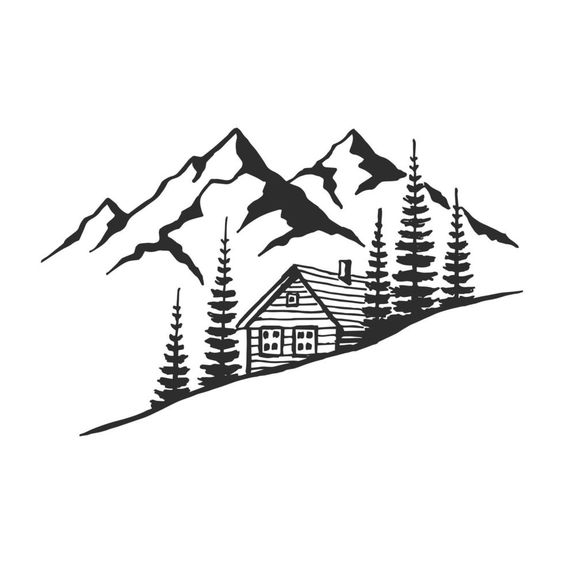
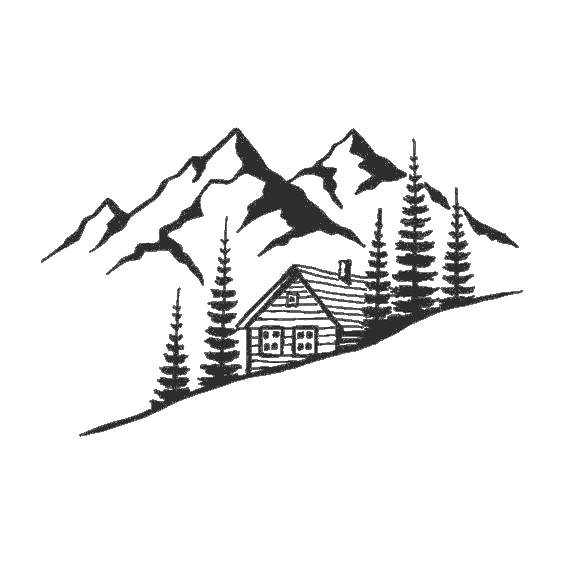
Fix styles for dark theme

diff --git a/OpenIdProvider.Blazor/Components/Pages/Account/Login.razor.css b/OpenIdProvider.Blazor/Components/Pages/Account/Login.razor.css
@@ -57,8 +57,15 @@ img {
     background-color: #a2a1a1;
 }
 
-.form-control {
-    height: 50px;
+.form-floating ::deep .form-control {
+    background-color: var(--bg-color);
+    border: 1px solid var(--border-color);
+    color: var(--text-primary);
+    transition: box-shadow 0.2s, border-color 0.2s;
+}
+
+.form-floating > label {
+    color: var(--text-secondary);
 }
 
 .btn-success {
@@ -81,10 +88,16 @@ img {
     text-align: center;
 }
 
-.container-inline p,
+.container-inline p {
+    display: inline;
+    color: var(--text-secondary);
+    margin-right: 10px;
+    font-size: 16px;
+}
+
 .container-inline a {
     display: inline;
-    color: #2f2f2f;
+    color: var(--accent-purple);
     margin-right: 10px;
     font-size: 16px;
 }

diff --git a/OpenIdProvider.Blazor/Components/Pages/Account/Register.razor.css b/OpenIdProvider.Blazor/Components/Pages/Account/Register.razor.css
@@ -57,8 +57,15 @@ img {
     background-color: #a2a1a1;
 }
 
-.form-control {
-    height: 50px;
+.form-floating ::deep .form-control {
+    background-color: var(--bg-color);
+    border: 1px solid var(--border-color);
+    color: var(--text-primary);
+    transition: box-shadow 0.2s, border-color 0.2s;
+}
+
+.form-floating > label {
+    color: var(--text-secondary);
 }
 
 .btn-success {
@@ -83,10 +90,16 @@ img {
     text-align: center;
 }
 
-.container-inline p,
+.container-inline p {
+    display: inline;
+    color: var(--text-secondary);
+    margin-right: 10px;
+    font-size: 16px;
+}
+
 .container-inline a {
     display: inline;
-    color: #2f2f2f;
+    color: var(--accent-purple);
     margin-right: 10px;
     font-size: 16px;
 }
